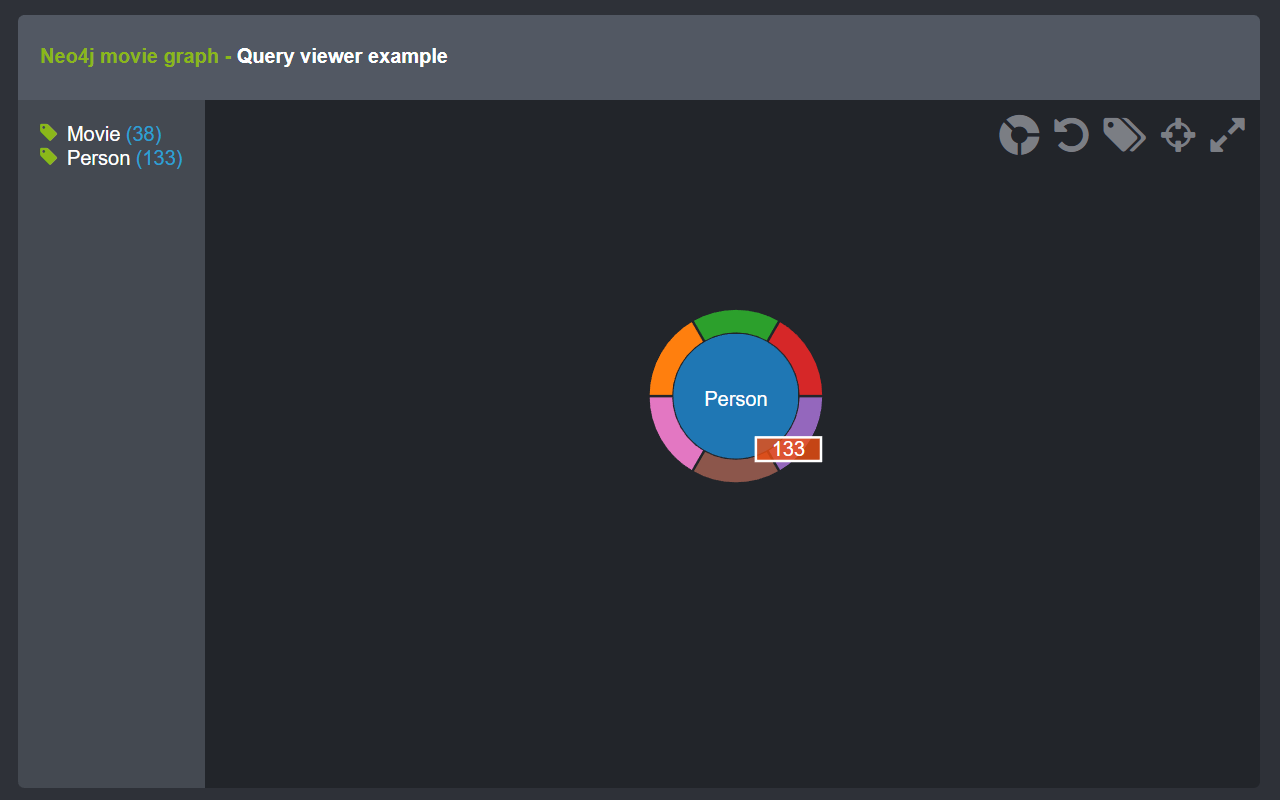
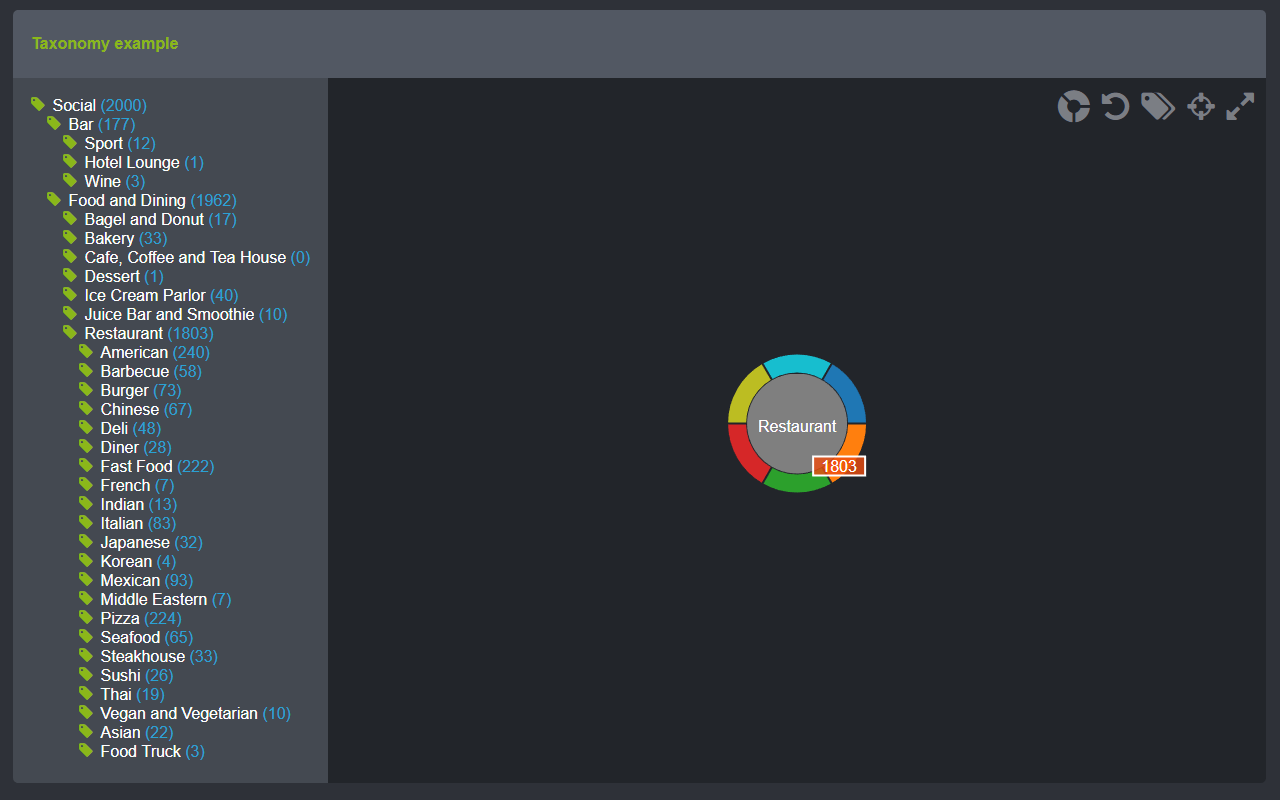
update example

Changed region(s): [[0.0, 0.0, 1.0, 1.0], [0.5, 0.375, 0.6875, 0.625]]

diff --git a/taxonomy/index.html b/taxonomy/index.html
@@ -28,13 +28,20 @@
             height: 100%;
         }
 
+        .ppt-div-graph{
+            height: 100%;
+        }
+        .ppt-container-graph{
+            height: 865px;
+        }
+
     </style>
 </head>
 <body class="ppt-body">
 
-<section class="ppt-section-main" style="height: 800px">
+<section class="ppt-section-main">
     <div class="ppt-section-header">
-        <span class="ppt-header-span">Neo4j movie graph -</span> Query viewer example
+        <span class="ppt-header-span">Taxonomy example</span>
     </div>
     <div class="ppt-container-graph">
 
